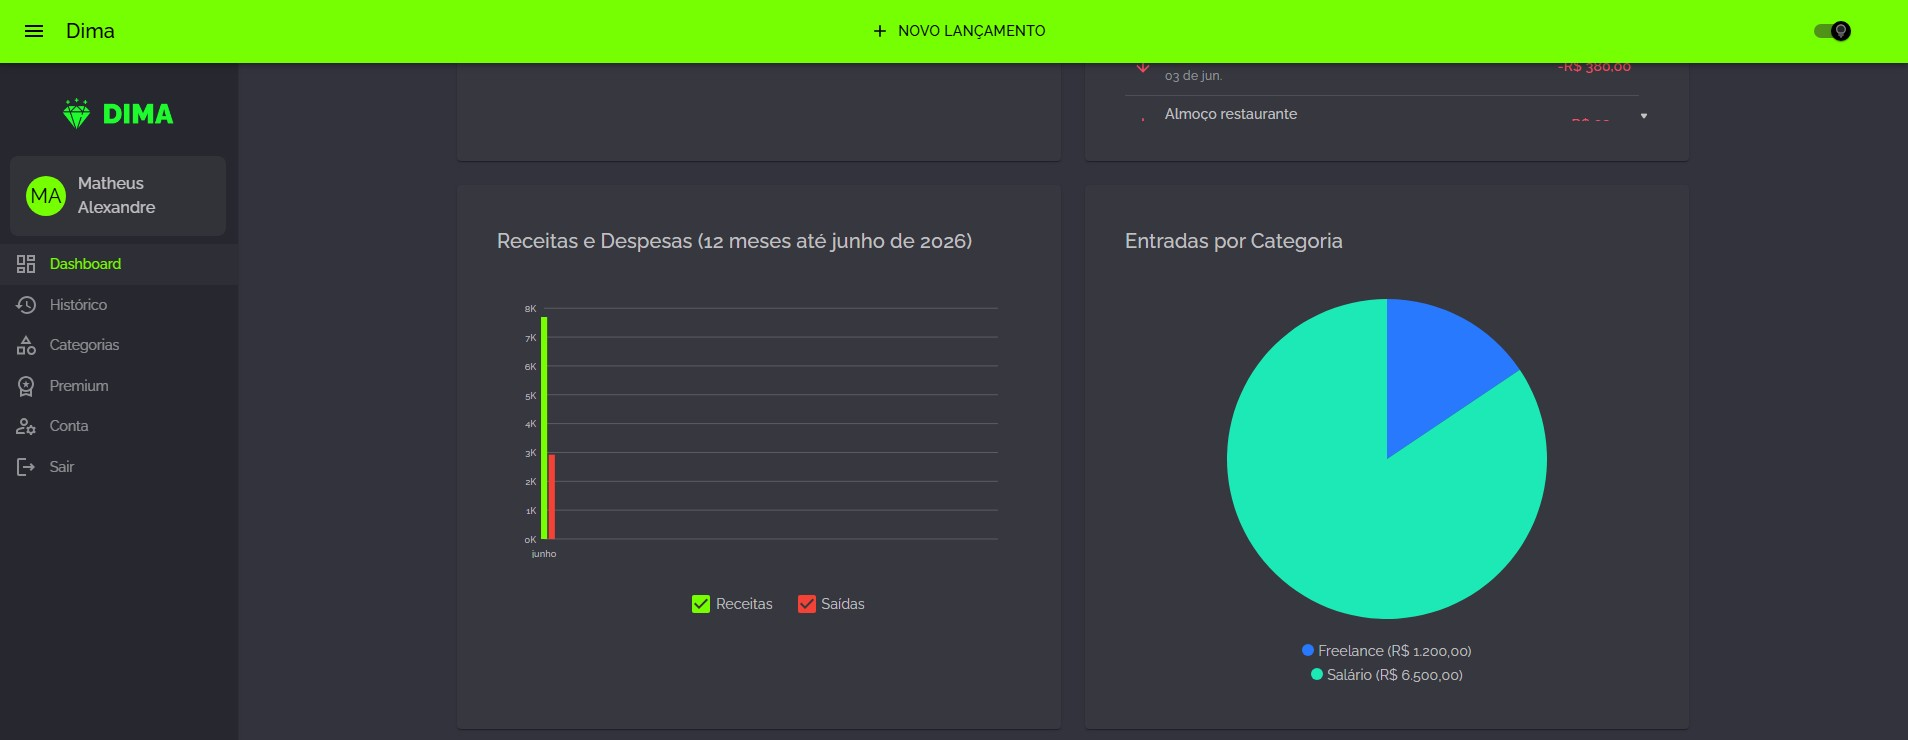
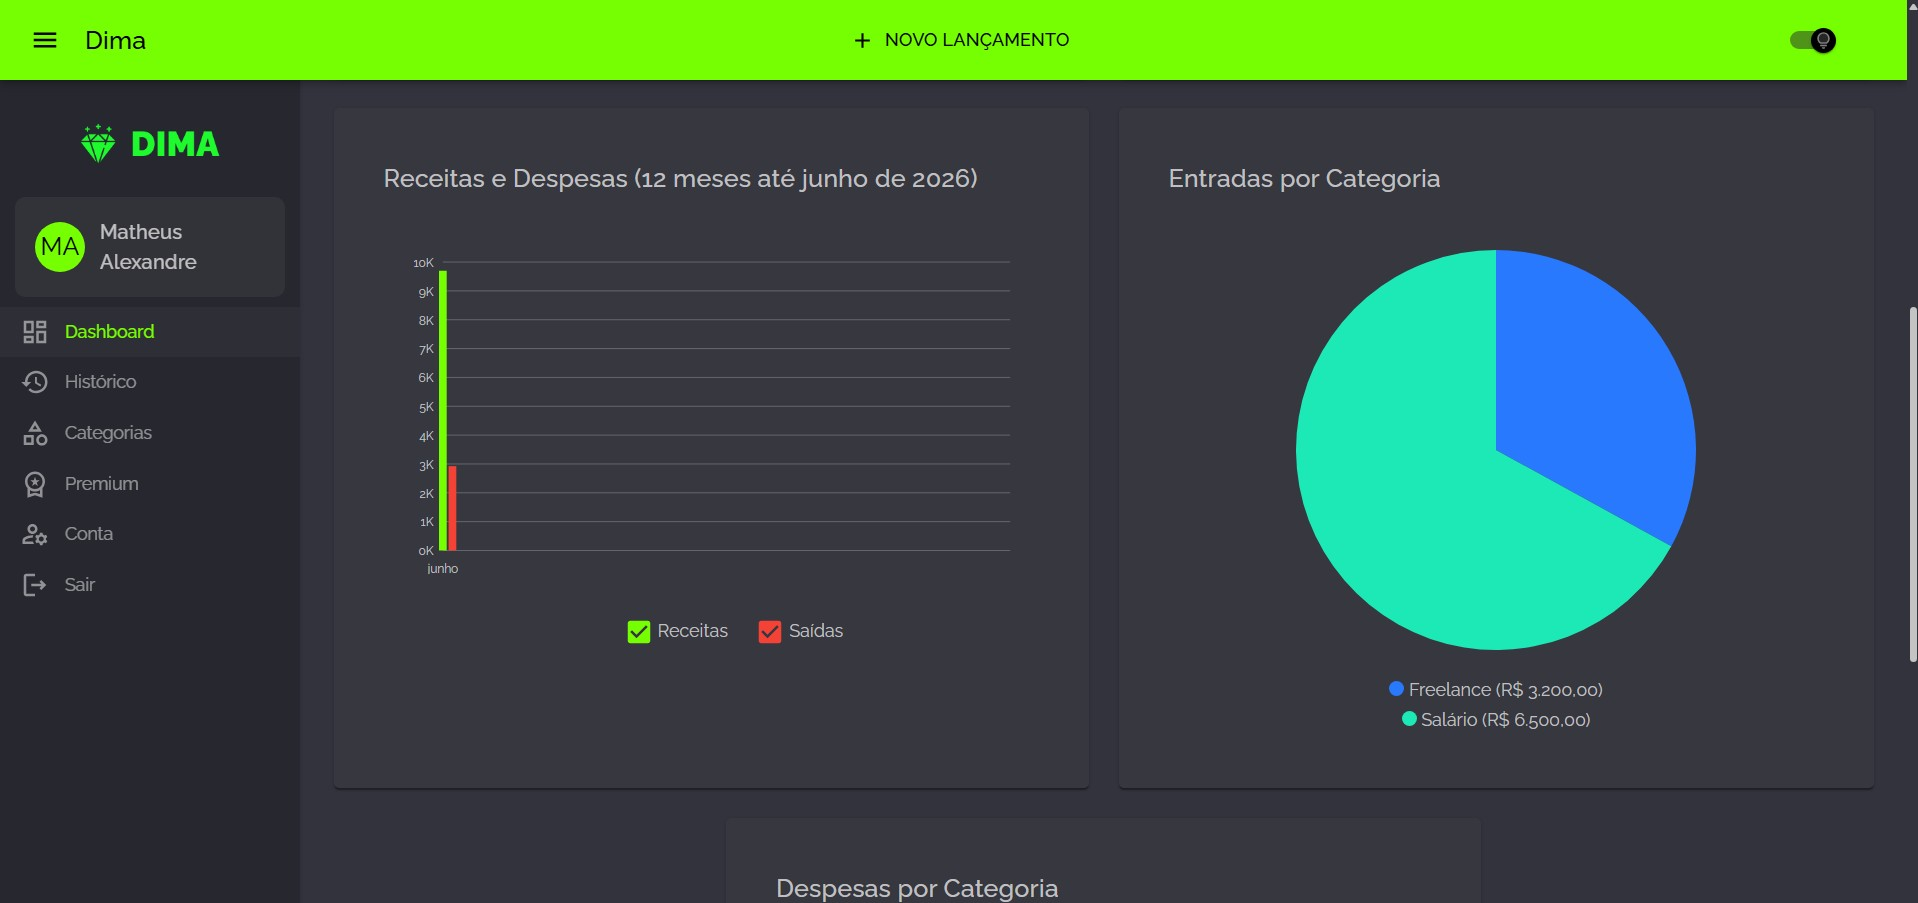
feat: standardized Dima screenshots + real Vieira Solutions hero
- Replace Dashboard 1 (663px tall) and Dashboard 2 (740px tall) with new captures
  that match the rest of the set (903-907px), so the carousel no longer jumps
  visual heights between slides
- Add /images/projects/vieira-hero.jpg (1918x911) — captured from the live
  https://solutionsvieira.com.br/ — showing the gold/black agency identity,
  the 'Transformamos ideias em resultados digitais' headline, both CTAs
  and the start of the services section
- Wire vieira-hero into the Vieira project card (replacing the placeholder
  gradient + megaphone icon)

diff --git a/src/components/ProjectsSection.tsx b/src/components/ProjectsSection.tsx
@@ -96,7 +96,7 @@ const ProjectsSection = () => {
       gradient: "from-purple-600 to-pink-600",
       github: "https://github.com/Mathows/vieira-solutions",
       demo: "https://solutionsvieira.com.br/",
-      images: [],
+      images: ["/images/projects/vieira-hero.jpg"],
       featured: false,
     }
   ];
